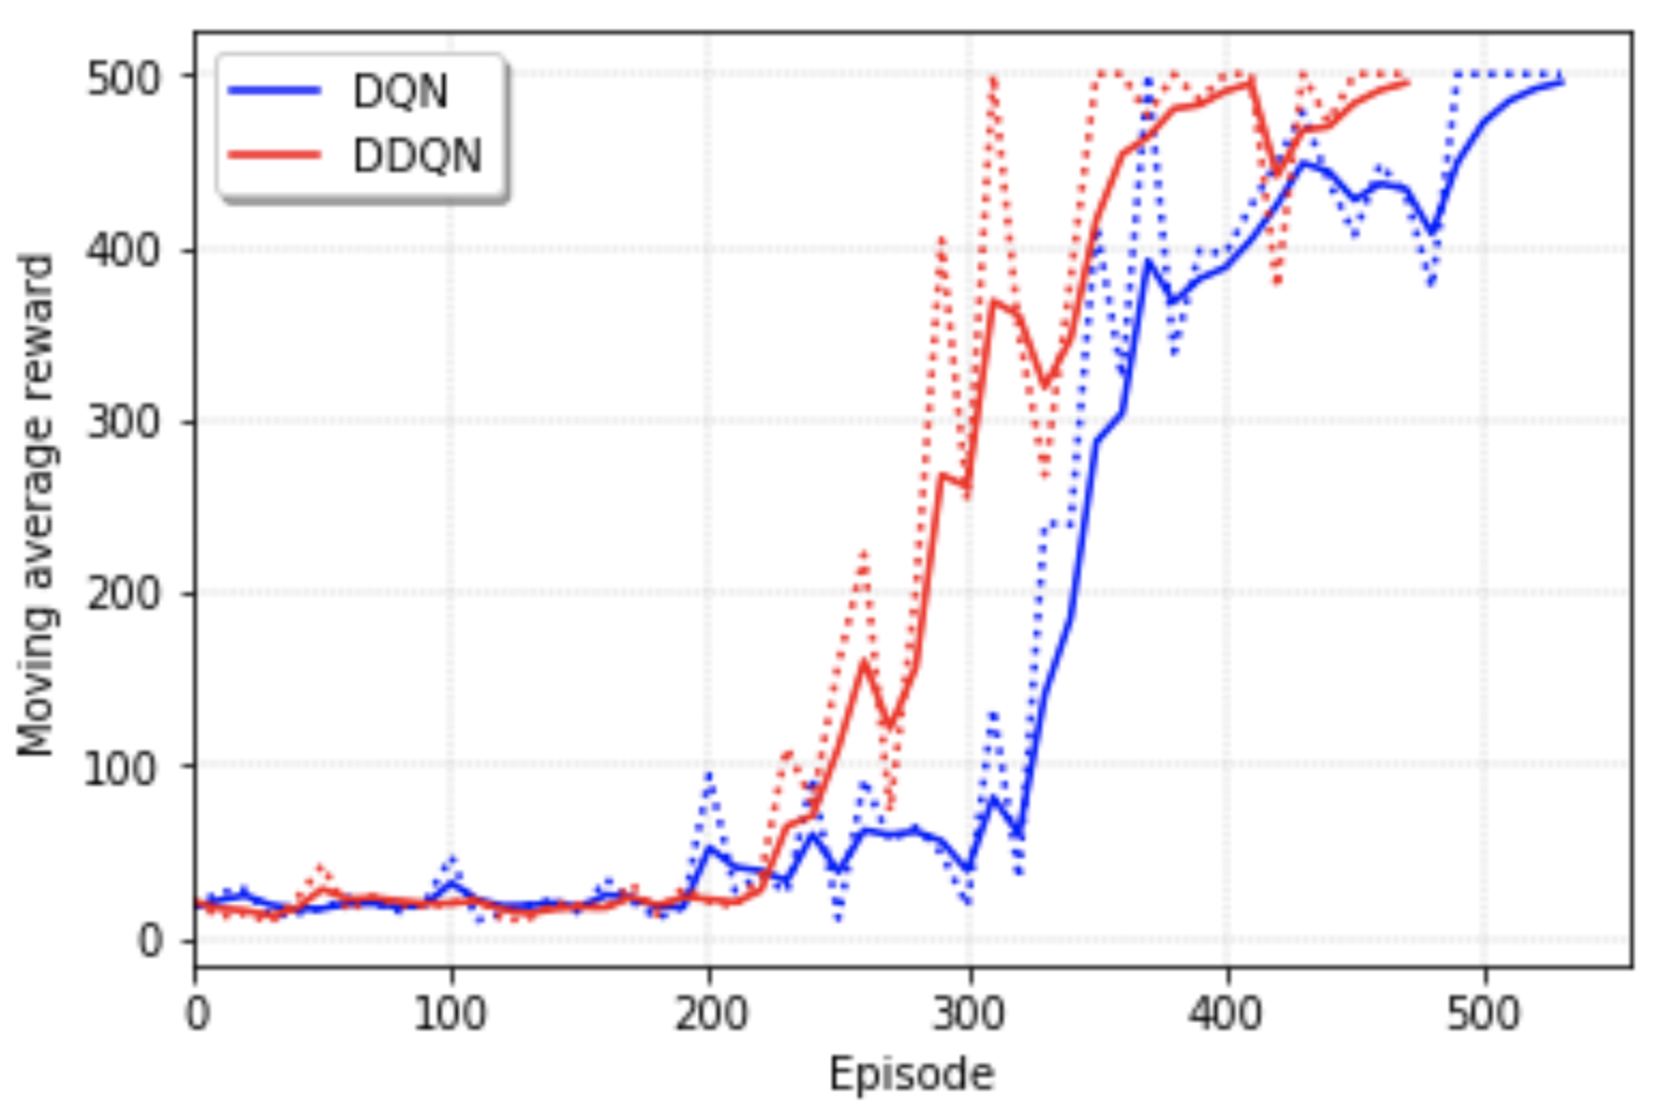
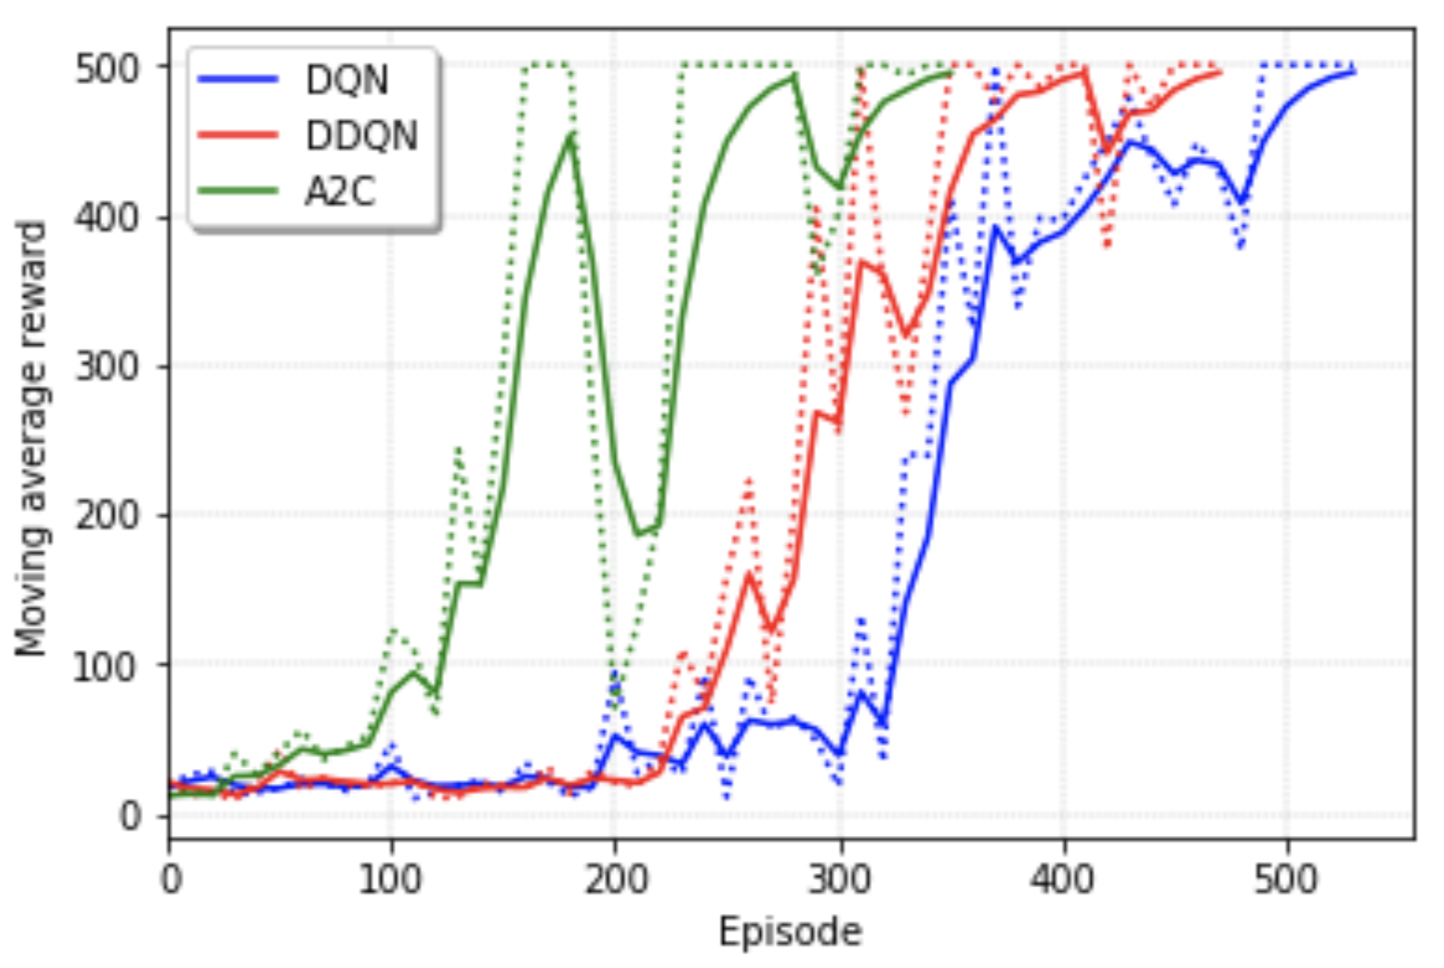
Update save model file and add A2C

diff --git a/3_A2C_DDPG/a2c/train.py b/3_A2C_DDPG/a2c/train.py
@@ -1,0 +1,133 @@
+import os
+import gym
+import argparse
+import numpy as np
+
+import torch
+import torch.optim as optim
+from torch.distributions import Categorical
+
+from model import Actor, Critic
+from tensorboardX import SummaryWriter
+
+parser = argparse.ArgumentParser()
+parser.add_argument('--env_name', type=str, default="CartPole-v1")
+parser.add_argument('--load_model', type=str, default=None)
+parser.add_argument('--save_path', default='./save_model/', help='')
+parser.add_argument('--render', action="store_true", default=False)
+parser.add_argument('--gamma', type=float, default=0.99)
+parser.add_argument('--hidden_size', type=int, default=64)
+parser.add_argument('--actor_lr', type=float, default=1e-4)
+parser.add_argument('--critic_lr', type=float, default=1e-3)
+parser.add_argument('--ent_coef', type=float, default=0.1)
+parser.add_argument('--max_iter_num', type=int, default=1000)
+parser.add_argument('--log_interval', type=int, default=10)
+parser.add_argument('--goal_score', type=int, default=400)
+parser.add_argument('--logdir', type=str, default='./logs',
+                    help='tensorboardx logs directory')
+args = parser.parse_args()
+
+def train_model(actor, critic, actor_optimizer, critic_optimizer, transition, policies):
+    state, action, reward, next_state, mask = transition
+    
+    # update critic 
+    criterion = torch.nn.MSELoss()
+    
+    value = critic(torch.Tensor(state)).squeeze(1)
+    
+    next_value = critic(torch.Tensor(next_state)).squeeze(1)
+    target = reward + mask * args.gamma * next_value
+    
+    critic_loss = criterion(value, target.detach())
+    critic_optimizer.zero_grad()
+    critic_loss.backward()
+    critic_optimizer.step()
+
+    # update actor 
+    categorical = Categorical(policies)
+    log_policy = categorical.log_prob(torch.Tensor([action]))
+    entropy = categorical.entropy()
+    
+    advantage = target - value
+
+    actor_loss = -log_policy * advantage.item() + args.ent_coef * entropy
+    actor_optimizer.zero_grad()
+    actor_loss.backward()
+    actor_optimizer.step()
+
+def get_action(policies):
+    categorical = Categorical(policies)
+    action = categorical.sample()
+    action = action.data.numpy()[0]
+    
+    return action
+
+
+def main():
+    env = gym.make(args.env_name)
+    env.seed(500)
+    torch.manual_seed(500)
+
+    state_size = env.observation_space.shape[0]
+    action_size = env.action_space.n
+    print('state size:', state_size)
+    print('action size:', action_size)
+
+    actor = Actor(state_size, action_size, args)
+    critic = Critic(state_size, args)
+
+    actor_optimizer = optim.Adam(actor.parameters(), lr=args.actor_lr)
+    critic_optimizer = optim.Adam(critic.parameters(), lr=args.critic_lr)
+
+    writer = SummaryWriter(args.logdir)
+
+    running_score = 0
+
+    for episode in range(args.max_iter_num):
+        done = False
+        score = 0
+
+        state = env.reset()
+        state = np.reshape(state, [1, state_size])
+
+        while not done:
+            if args.render:
+                env.render()
+
+            policies = actor(torch.Tensor(state))
+            action = get_action(policies)
+
+            next_state, reward, done, _ = env.step(action)
+
+            next_state = np.reshape(next_state, [1, state_size])
+            reward = reward if not done or score == 499 else -1
+            mask = 0 if done else 1
+            
+            transition = [state, action, reward, next_state, mask]
+
+            actor.train(), critic.train()
+            train_model(actor, critic, actor_optimizer, critic_optimizer, 
+                        transition, policies)
+
+            state = next_state
+            score += reward
+
+        score = score if score == 500.0 else score + 1
+        running_score = 0.99 * running_score + 0.01 * score
+
+        if episode % args.log_interval == 0:
+            print('{} episode | running_score: {:.2f}'.format(episode, running_score))
+            writer.add_scalar('log/score', float(score), episode)
+
+        if running_score > args.goal_score:
+            if not os.path.isdir(args.save_path):
+                os.makedirs(args.save_path)
+    
+            ckpt_path = args.save_path + 'model.pth.tar'
+            torch.save(actor.state_dict(), ckpt_path)
+            print('Running score exceeds 400. So end')
+            break  
+
+if __name__=="__main__":
+    main()
+    

diff --git a/3_A2C_DDPG/a2c/test.py b/3_A2C_DDPG/a2c/test.py
@@ -5,20 +5,23 @@ import argparse
 import numpy as np
 
 import torch
-from utils import *
 from model import Actor, Critic
+from torch.distributions import Categorical
 
 parser = argparse.ArgumentParser()
-parser.add_argument('--env_name', type=str, default="Pendulum-v0")
-parser.add_argument("--load_model", type=str, default='model.pth')
+parser.add_argument('--env_name', type=str, default="CartPole-v1")
+parser.add_argument("--load_model", type=str, default='model.pth.tar')
 parser.add_argument('--render', action="store_true", default=True)
 parser.add_argument('--hidden_size', type=int, default=64)
-parser.add_argument('--theta', type=float, default=0.15)
-parser.add_argument('--mu', type=float, default=0.0)
-parser.add_argument('--sigma', type=float, default=0.2)
 parser.add_argument('--iter', type=int, default=10000)
 parser.add_argument('--log_interval', type=int, default=10)
 args = parser.parse_args()
+
+def get_action(policies):
+    m = Categorical(policies)
+    action = m.sample()
+    action = action.data.numpy()[0]
+    return action
 
 if __name__=="__main__":
     env = gym.make(args.env_name)
@@ -26,10 +29,10 @@ if __name__=="__main__":
     torch.manual_seed(500)
 
     state_size = env.observation_space.shape[0]
-    action_size = env.action_space.shape[0]
+    action_size = env.action_space.n
     print('state size:', state_size)
     print('action size:', action_size)
-    
+
     actor = Actor(state_size, action_size, args)
     
     if args.load_model is not None:
@@ -37,7 +40,6 @@ if __name__=="__main__":
         pretrained_model = torch.load(pretrained_model_path)
         actor.load_state_dict(pretrained_model)
 
-    ou_noise = OUNoise(action_size, args.theta, args.mu, args.sigma)
     steps = 0
     
     for episode in range(args.iter):
@@ -52,15 +54,16 @@ if __name__=="__main__":
                 env.render()
 
             steps += 1
-
-            policy = actor(torch.Tensor(state))
-            action = get_action(policy, ou_noise)
+            policies = actor(torch.Tensor(state))
+            action = get_action(policies)
             
             next_state, reward, done, _ = env.step(action)
-            
-            next_state = np.reshape(next_state, [1, state_size])
+
+            next_state = np.reshape(next_state, [1, state_size])            
+            reward = reward if not done or score == 499 else -1
+
             state = next_state
             score += reward
 
         if episode % args.log_interval == 0:
-            print('{} episode | score: {:.2f}'.format(episode, score[0]))
+            print('{} episode | score: {:.2f}'.format(episode, score))

diff --git a/3_A2C_DDPG/a2c/model.py b/3_A2C_DDPG/a2c/model.py
@@ -1,0 +1,30 @@
+import torch
+import torch.nn as nn
+
+class Actor(nn.Module):
+    def __init__(self, state_size, action_size, args):
+        super(Actor, self).__init__()
+        self.fc1 = nn.Linear(state_size, args.hidden_size)
+        self.fc2 = nn.Linear(args.hidden_size, args.hidden_size)
+        self.fc3 = nn.Linear(args.hidden_size, action_size)
+
+    def forward(self, x):
+        x = torch.tanh(self.fc1(x))
+        x = torch.tanh(self.fc2(x))
+        policies = torch.softmax(self.fc3(x), dim=1)
+
+        return policies
+
+class Critic(nn.Module):
+    def __init__(self, state_size, args):
+        super(Critic, self).__init__()
+        self.fc1 = nn.Linear(state_size, args.hidden_size)
+        self.fc2 = nn.Linear(args.hidden_size, args.hidden_size)
+        self.fc3 = nn.Linear(args.hidden_size, 1)
+
+    def forward(self, x):
+        x = torch.tanh(self.fc1(x))
+        x = torch.tanh(self.fc2(x))
+        value = self.fc3(x)
+        
+        return value

diff --git a/3_A2C_DDPG/ddpg/test.py b/3_A2C_DDPG/ddpg/test.py
@@ -37,6 +37,7 @@ if __name__=="__main__":
         pretrained_model = torch.load(pretrained_model_path)
         actor.load_state_dict(pretrained_model)
 
+    ou_noise = OUNoise(action_size, args.theta, args.mu, args.sigma)
     steps = 0
     
     for episode in range(args.iter):
@@ -52,8 +53,8 @@ if __name__=="__main__":
 
             steps += 1
 
-            mu, std = actor(torch.Tensor(state))
-            action = get_action(mu, std)
+            policy = actor(torch.Tensor(state))
+            action = get_action(policy, ou_noise)
             
             next_state, reward, done, _ = env.step(action)
             

diff --git a/4_TRPO_PPO/ppo/test.py b/4_TRPO_PPO/ppo/test.py
@@ -9,7 +9,7 @@ from model import Actor
 
 parser = argparse.ArgumentParser()
 parser.add_argument('--env_name', type=str, default="Pendulum-v0")
-parser.add_argument("--load_model", type=str, default='model.pth')
+parser.add_argument("--load_model", type=str, default='model.pth.tar')
 parser.add_argument('--render', action="store_true", default=True)
 parser.add_argument('--hidden_size', type=int, default=64)
 parser.add_argument('--iter', type=int, default=10000)

diff --git a/4_TRPO_PPO/trpo/test.py b/4_TRPO_PPO/trpo/test.py
@@ -9,7 +9,7 @@ from model import Actor
 
 parser = argparse.ArgumentParser()
 parser.add_argument('--env_name', type=str, default="Pendulum-v0")
-parser.add_argument("--load_model", type=str, default='model.pth')
+parser.add_argument("--load_model", type=str, default='model.pth.tar')
 parser.add_argument('--render', action="store_true", default=True)
 parser.add_argument('--hidden_size', type=int, default=64)
 parser.add_argument('--iter', type=int, default=10000)

diff --git a/2_DDQN/ddqn/test.py b/2_DDQN/ddqn/test.py
@@ -9,7 +9,7 @@ from model import QNet
 
 parser = argparse.ArgumentParser()
 parser.add_argument('--env_name', type=str, default="CartPole-v1")
-parser.add_argument("--load_model", type=str, default='model.pth')
+parser.add_argument("--load_model", type=str, default='model.pth.tar')
 parser.add_argument('--render', action="store_true", default=True)
 parser.add_argument('--hidden_size', type=int, default=64)
 parser.add_argument('--iter', type=int, default=10000)

diff --git a/2_DDQN/dqn/test.py b/2_DDQN/dqn/test.py
@@ -9,7 +9,7 @@ from model import QNet
 
 parser = argparse.ArgumentParser()
 parser.add_argument('--env_name', type=str, default="CartPole-v1")
-parser.add_argument("--load_model", type=str, default='model.pth')
+parser.add_argument("--load_model", type=str, default='model.pth.tar')
 parser.add_argument('--render', action="store_true", default=True)
 parser.add_argument('--hidden_size', type=int, default=64)
 parser.add_argument('--iter', type=int, default=10000)

diff --git a/4_TRPO_PPO/ppo/train.py b/4_TRPO_PPO/ppo/train.py
@@ -162,7 +162,7 @@ def main():
             if not os.path.isdir(args.save_path):
                 os.makedirs(args.save_path)
             
-            ckpt_path = args.save_path + 'model.pth'
+            ckpt_path = args.save_path + 'model.pth.tar'
             torch.save(actor.state_dict(), ckpt_path)
             print('Recent rewards exceed -300. So end')
             break  

diff --git a/4_TRPO_PPO/trpo/train.py b/4_TRPO_PPO/trpo/train.py
@@ -153,7 +153,7 @@ def main():
             if not os.path.isdir(args.save_path):
                 os.makedirs(args.save_path)
             
-            ckpt_path = args.save_path + 'model.pth'
+            ckpt_path = args.save_path + 'model.pth.tar'
             torch.save(actor.state_dict(), ckpt_path)
             print('Recent rewards exceed -300. So end')
             break  

diff --git a/2_DDQN/ddqn/train.py b/2_DDQN/ddqn/train.py
@@ -145,7 +145,7 @@ def main():
             if not os.path.isdir(args.save_path):
                 os.makedirs(args.save_path)
     
-            ckpt_path = args.save_path + 'model.pth'
+            ckpt_path = args.save_path + 'model.pth.tar'
             torch.save(q_net.state_dict(), ckpt_path)
             print('Running score exceeds 400. So end')
             break  

diff --git a/3_A2C_DDPG/ddpg/train.py b/3_A2C_DDPG/ddpg/train.py
@@ -145,7 +145,7 @@ def main():
             if not os.path.isdir(args.save_path):
                 os.makedirs(args.save_path)
 
-            ckpt_path = args.save_path + 'model.pth'
+            ckpt_path = args.save_path + 'model.pth.tar'
             torch.save(actor.state_dict(), ckpt_path)
             print('Recent rewards exceed -300. So end')
             break  
